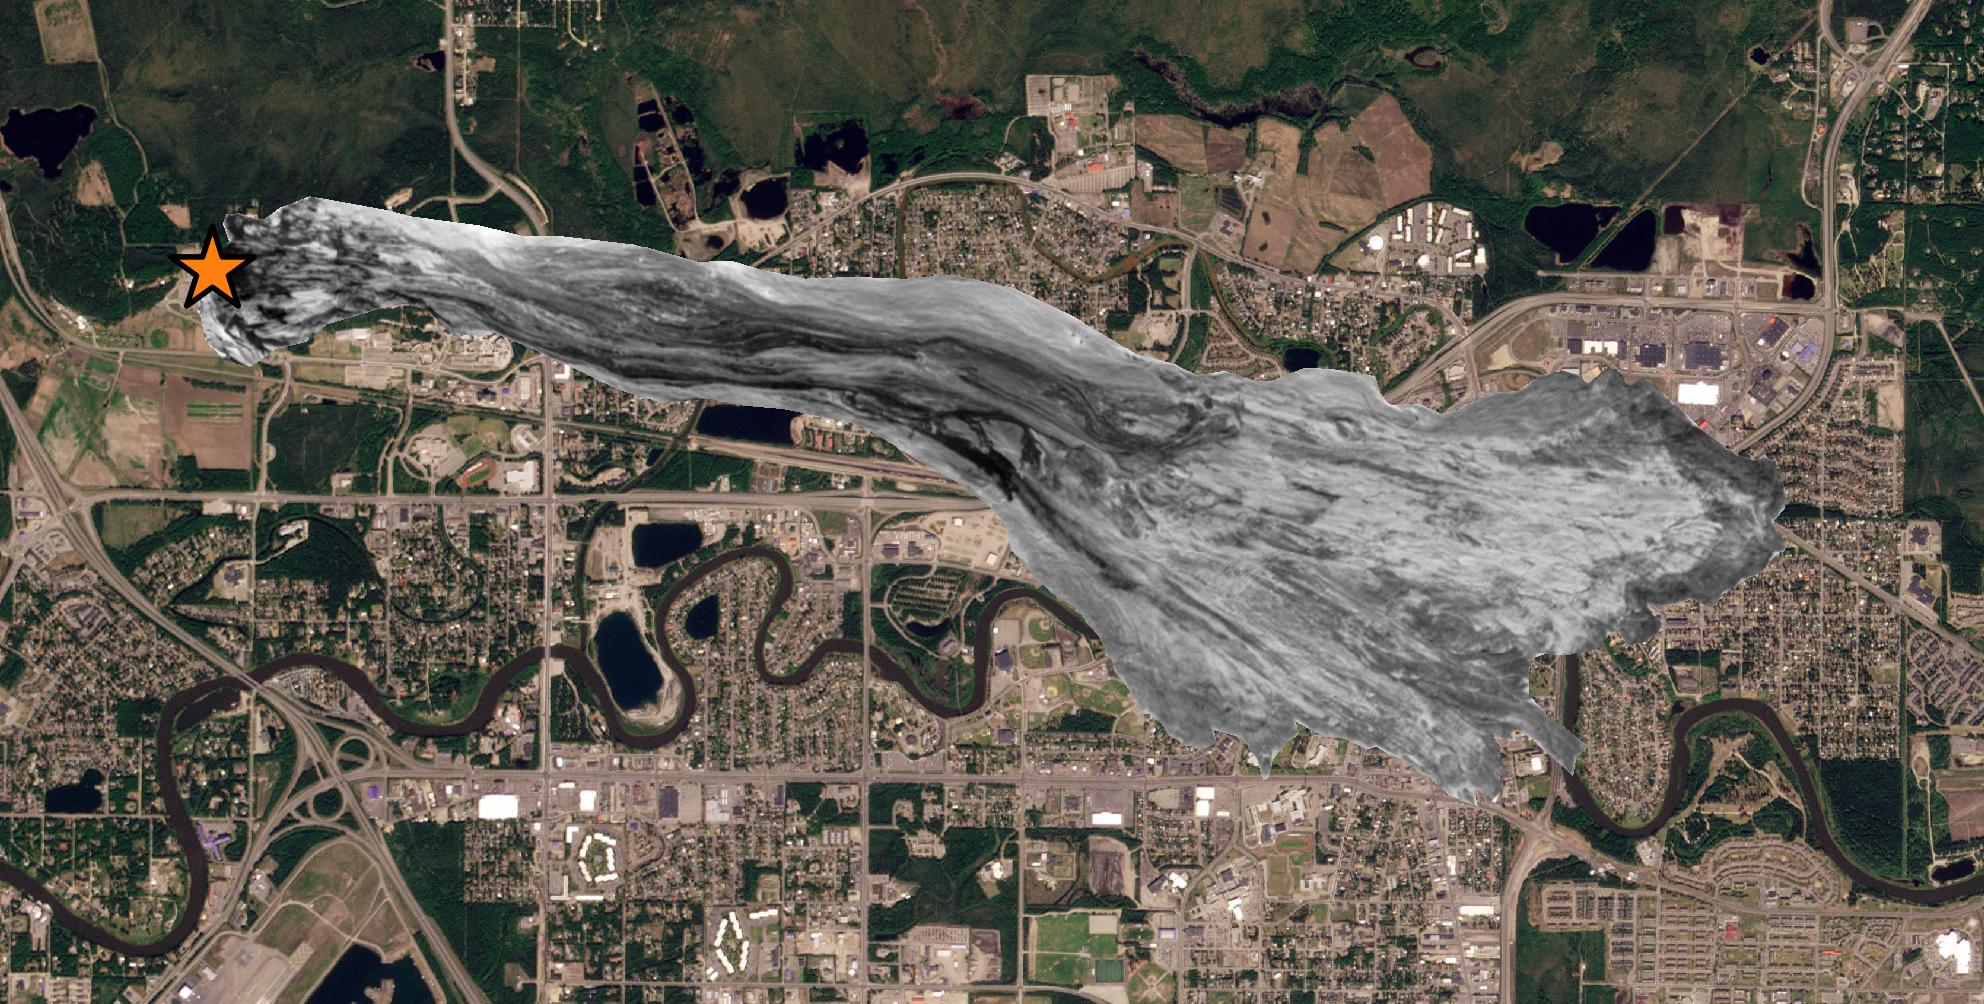
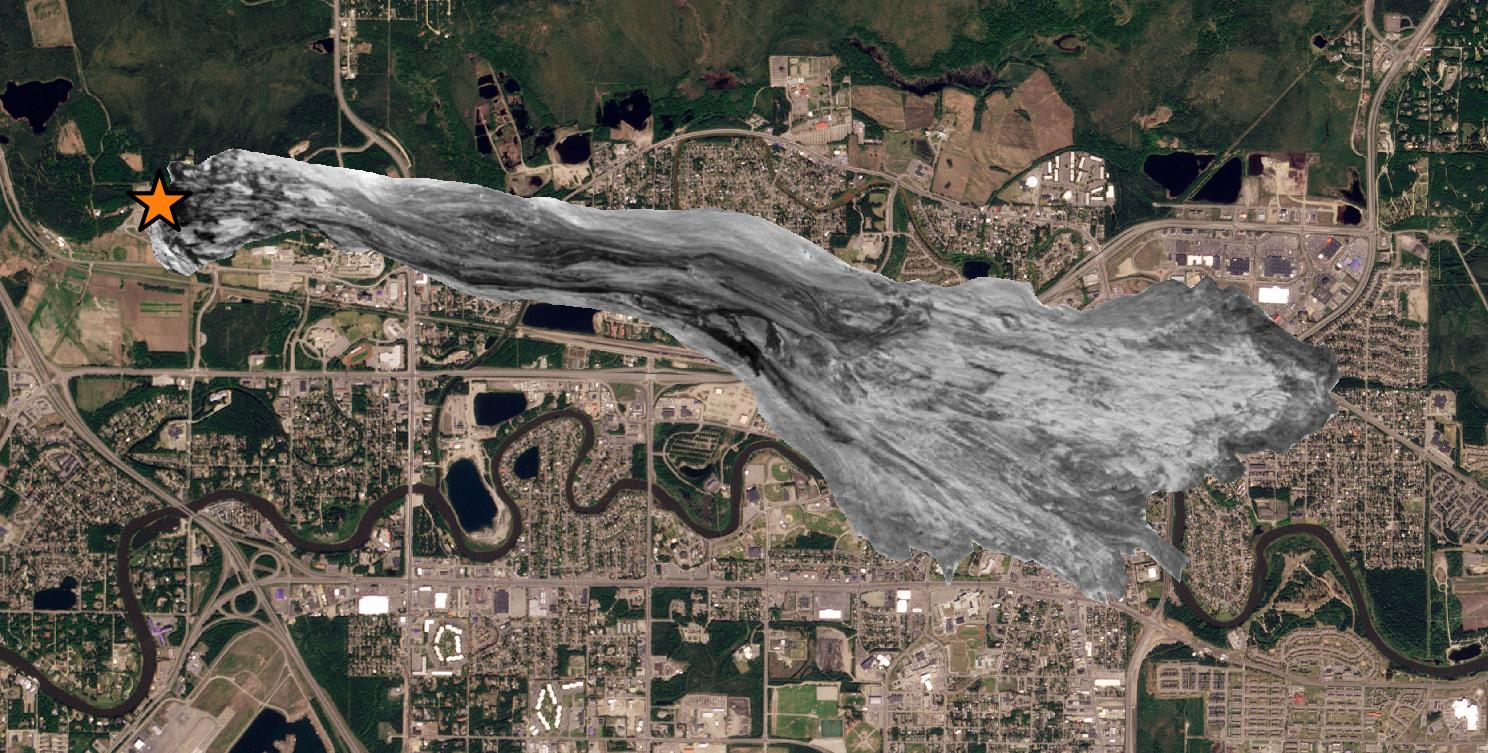
Reduce size of output image

diff --git a/landslide_superimpose.py b/landslide_superimpose.py
@@ -86,4 +86,4 @@ ax.set_ylim(miny - PAD, maxy + PAD)
 fig.show()
 
 # Save result
-fig.savefig('iliamna_2016_fbx.jpg', bbox_inches='tight', pad_inches=0, dpi=400)
+fig.savefig('iliamna_2016_fbx.jpg', bbox_inches='tight', pad_inches=0, dpi=300)
